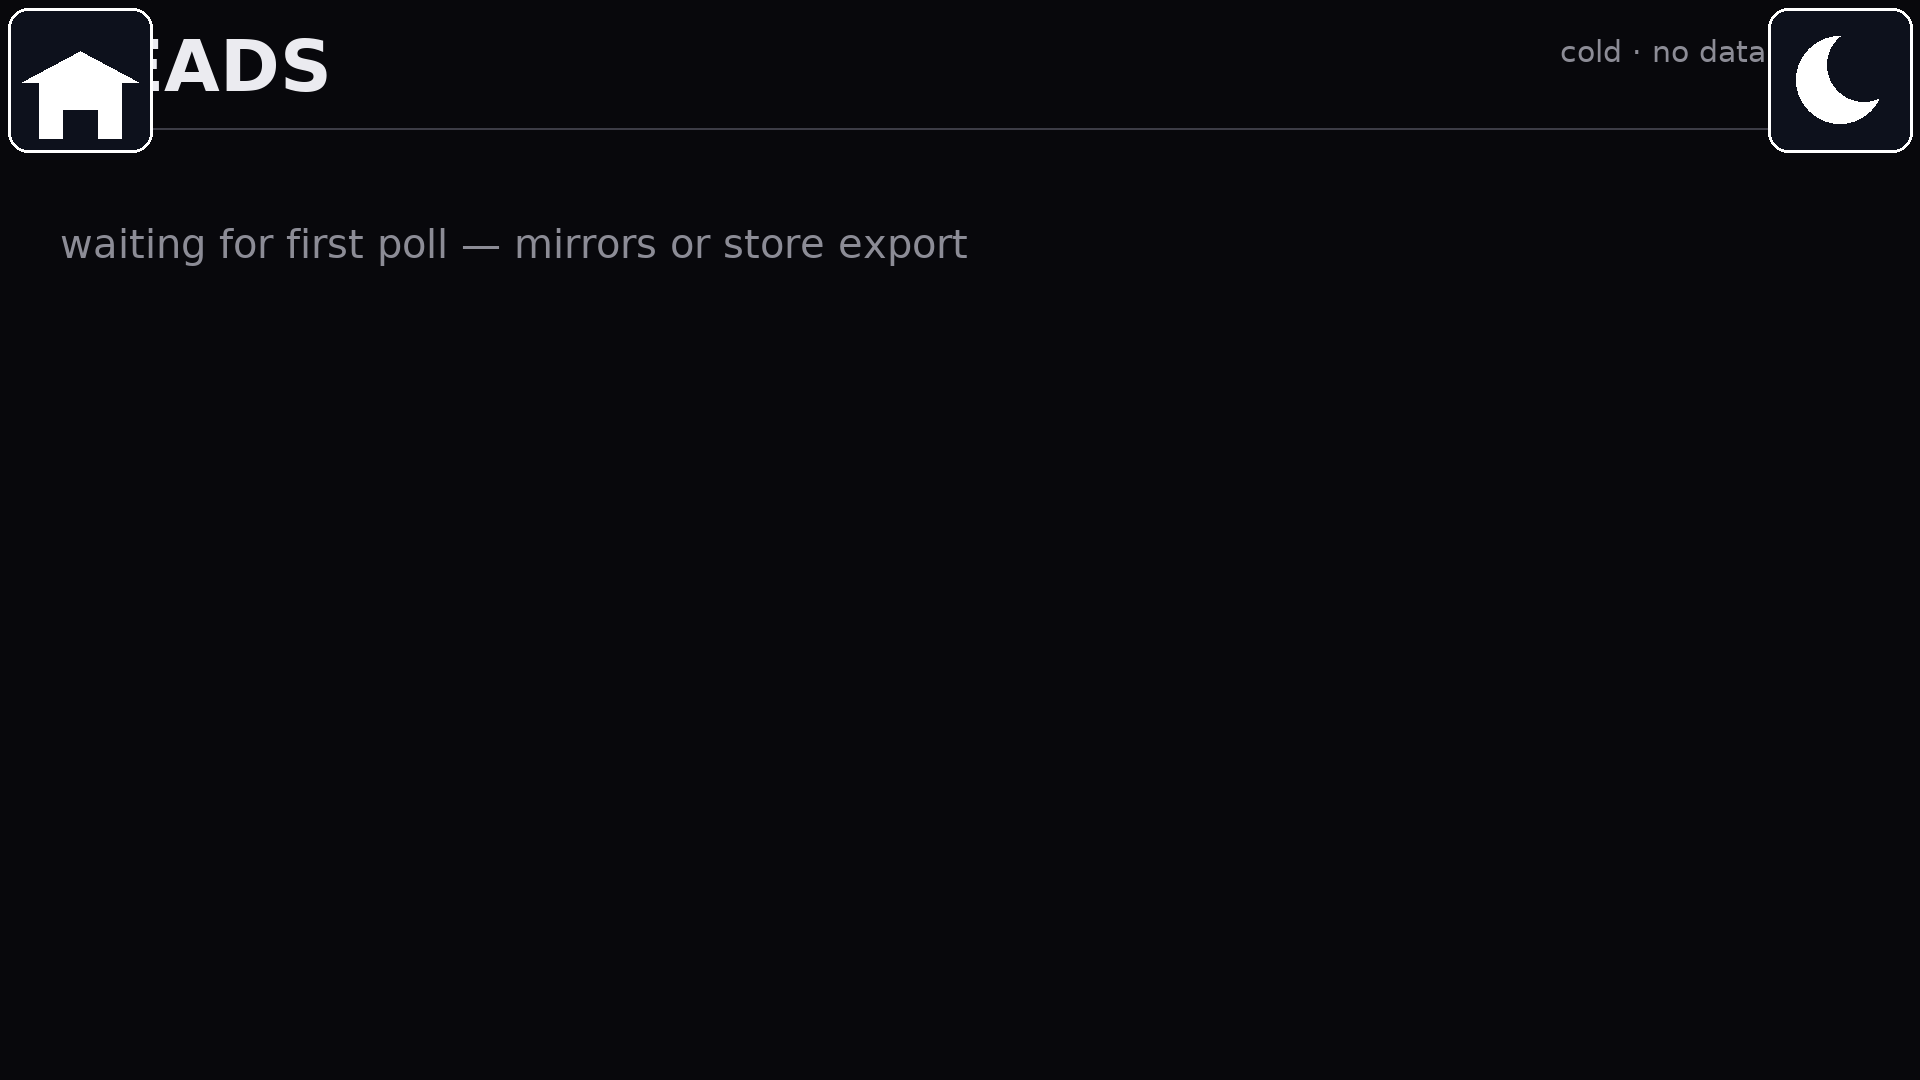
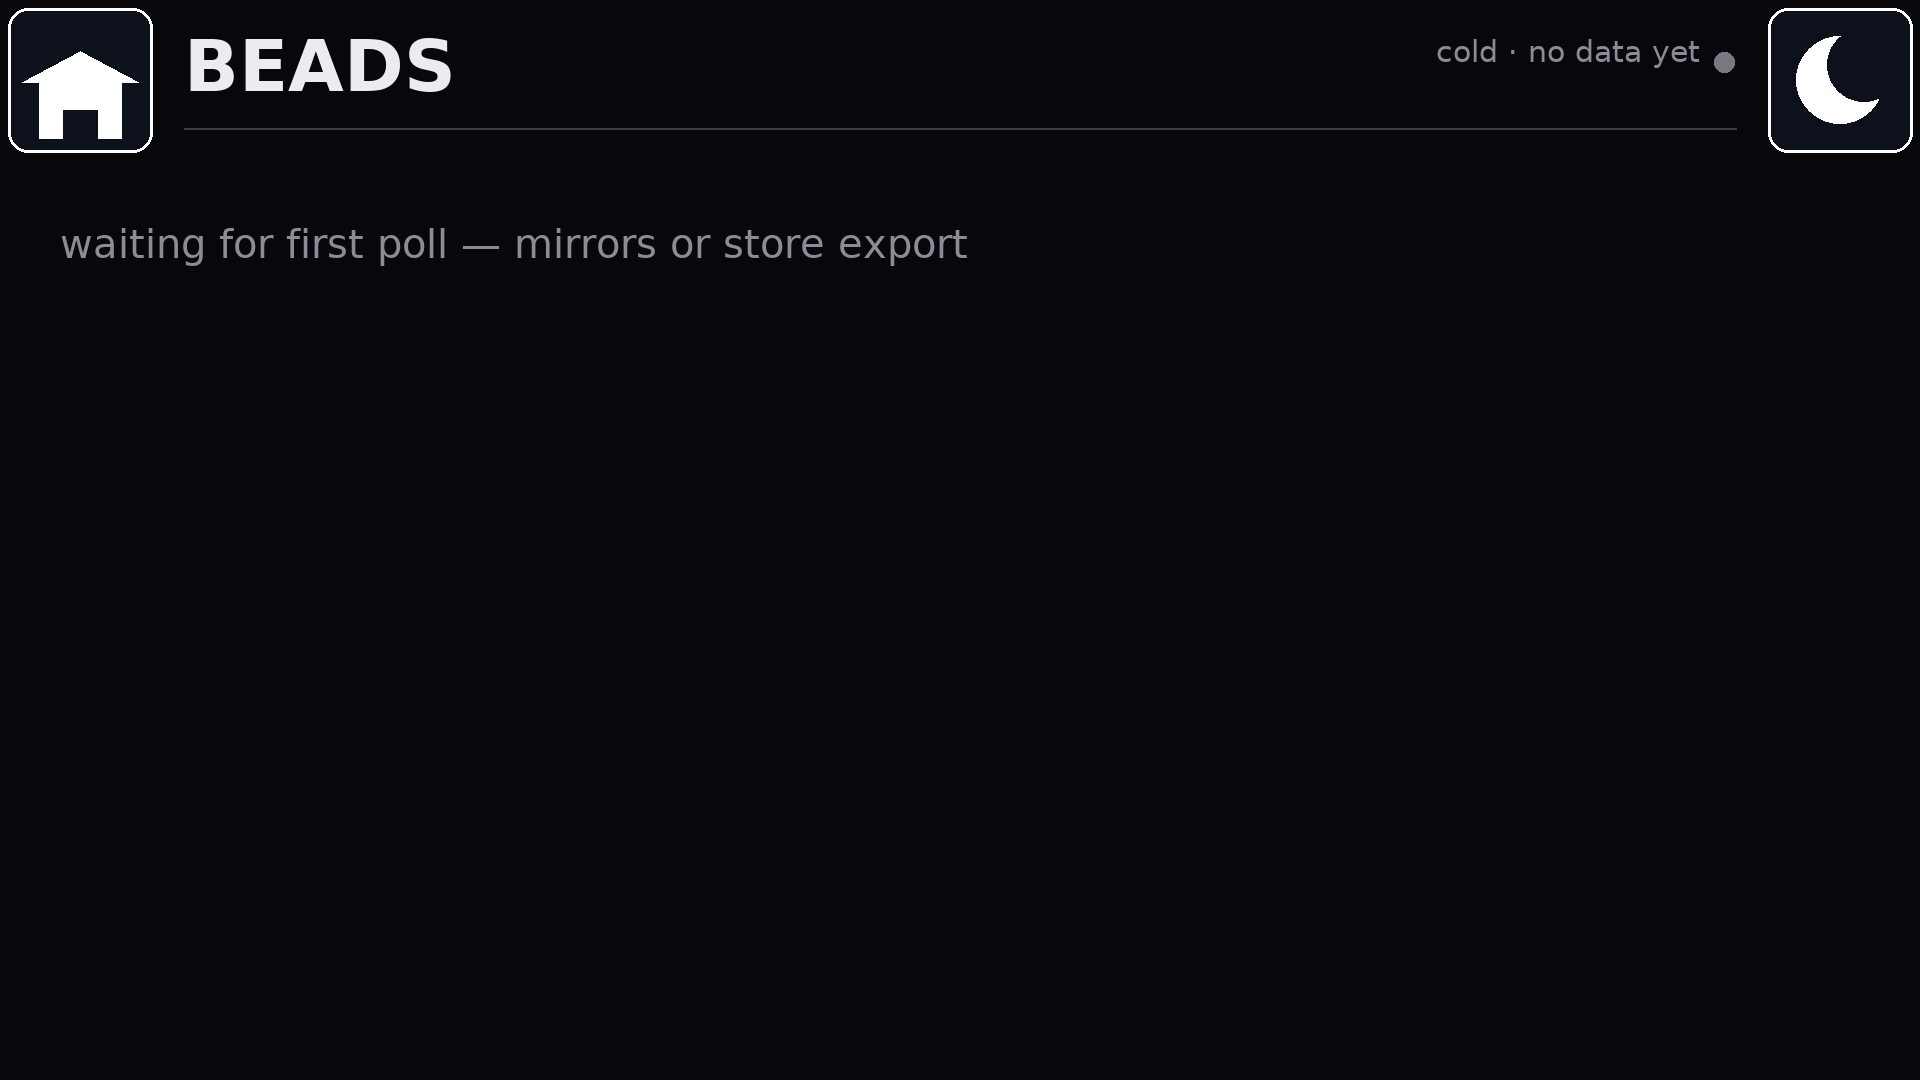
Clear the home badge in the beads header (and detail identity line)
BEADS rendered as EADS: beads.py drew its header at PAD=60, under the
160px home badge. Inset it by ui.shell.band_pad like the shared band.
Chat and services were already fixed by #53; beads.png recaptured.

Changed region(s): [[0.0625, 0.0306, 0.25, 0.0917], [0.75, 0.0306, 0.9375, 0.0611]]

diff --git a/renderers/beads.py b/renderers/beads.py
@@ -46,6 +46,7 @@ sys.path.insert(0, os.path.dirname(os.path.abspath(__file__)))
 
 import beads_attention as _attention_mod
 import beads_layout as layout
+from ui import shell as ui_shell
 from beads_age import _age
 from beads_buckets import _attention, _classify
 from beads_common import (
@@ -110,8 +111,9 @@ def _draw(screen, title, bg):
     small_font = _font(screen, "DejaVuSans", FOOT_SIZE)
     plain = head_font or row_font
 
-    # Header.
-    draw.text((PAD, 24), title, font=plain, fill=C_TEXT)
+    # Header: inset past the badges painted over the top corners.
+    hpad = ui_shell.band_pad(screen)
+    draw.text((hpad, 24), title, font=plain, fill=C_TEXT)
     health_dot = {"cold": (120, 120, 130), "warm": C_ROLLING,
                   "stale": C_STALLED, "error": (255, 90, 90)}[health]
     status = "%s \u00b7 %s" % (health, _age(updated))
@@ -121,11 +123,11 @@ def _draw(screen, title, bg):
             w = draw.textlength(status, font=small_font)
         except Exception:
             pass
-    draw.ellipse([screen.W - PAD - 22, 52, screen.W - PAD - 2, 72],
+    draw.ellipse([screen.W - hpad - 22, 52, screen.W - hpad - 2, 72],
                  fill=health_dot)
-    draw.text((screen.W - PAD - w - 36, 34), status,
+    draw.text((screen.W - hpad - w - 36, 34), status,
               font=small_font or plain, fill=C_DIM)
-    draw.line([(PAD, 128), (screen.W - PAD, 128)], fill=C_LINE, width=2)
+    draw.line([(hpad, 128), (screen.W - hpad, 128)], fill=C_LINE, width=2)
 
     if snap is None:
         # Cold start: a sensible waiting frame, never blank.

diff --git a/renderers/beads_detail_card.py b/renderers/beads_detail_card.py
@@ -14,6 +14,7 @@ from PIL import ImageDraw
 sys.path.insert(0, os.path.dirname(os.path.abspath(__file__)))
 
 from beads_age import _age, age_of
+from ui import shell as ui_shell
 from beads_common import (
     BUCKET_BY_KEY,
     C_DIM,
@@ -62,7 +63,7 @@ def _draw_card(screen, issue, bucket, waiters, dependents, snap,
     y = 24
     # Header: identity left, bucket pill + health right.
     ident = "[%s %s]" % (issue["store"], issue["id"])
-    draw.text((PAD, y + 8), ident, font=meta_font or plain, fill=C_DIM)
+    draw.text((ui_shell.band_pad(screen), y + 8), ident, font=meta_font or plain, fill=C_DIM)
     pill = "%s %s" % (glyph, label.upper())
     pill_w = 0
     if sec_font is not None:
